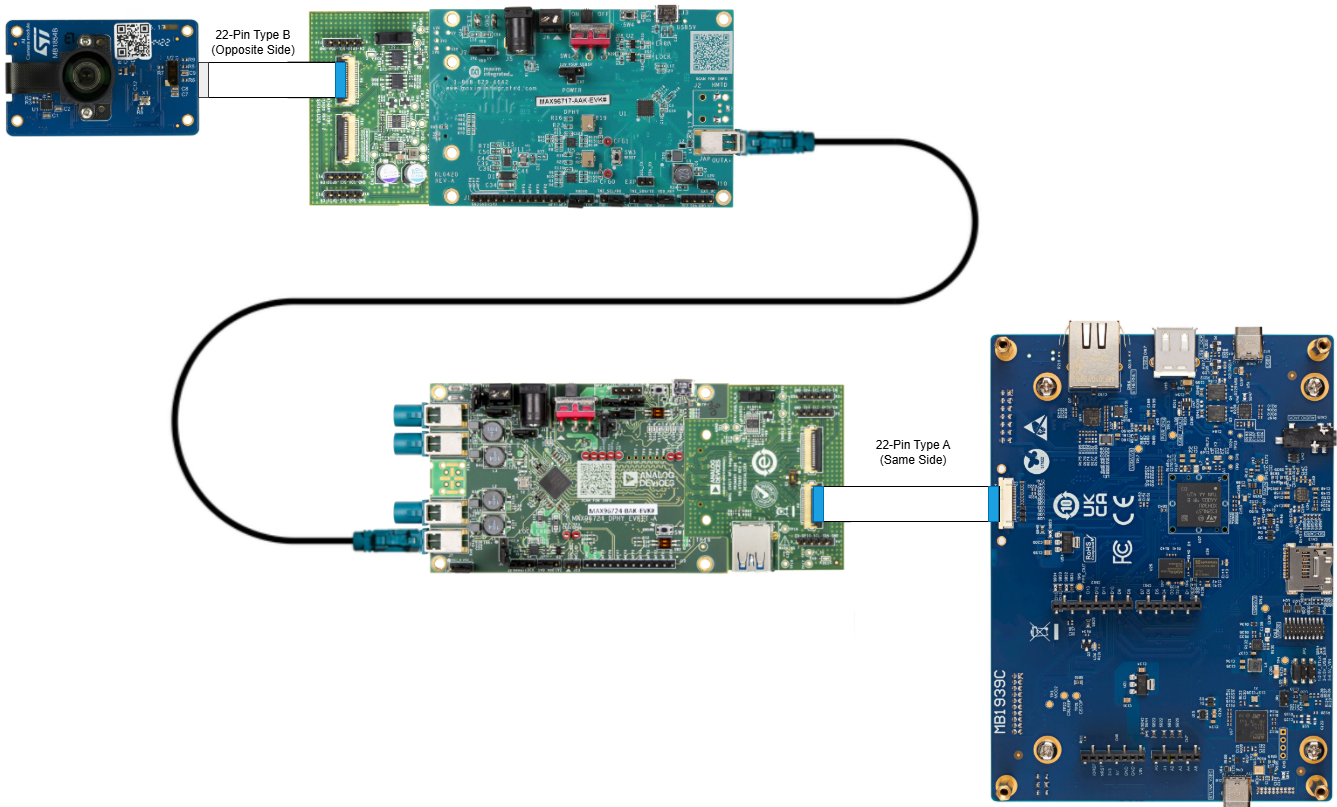
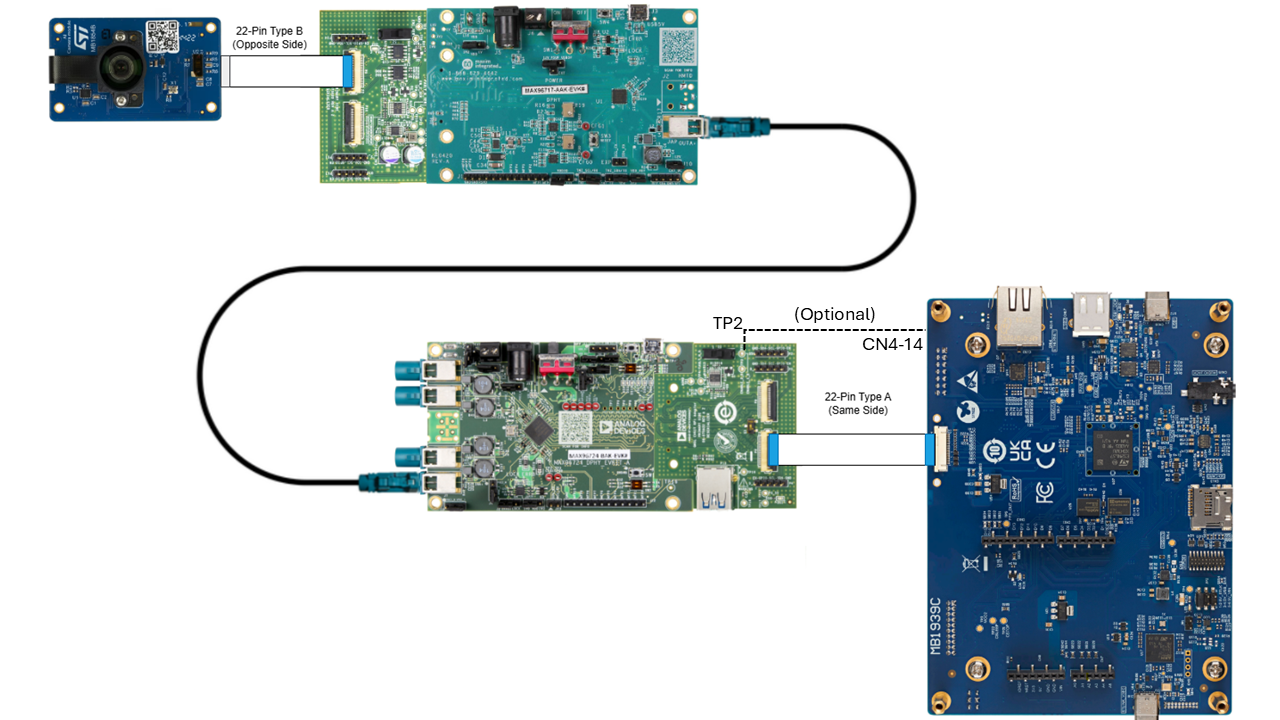
Add GPIO I2C Mux Control
Add GPIO control of the I2C MUX located on the deserializer
EvKit to allow the Zephyr application to control the
I2C routing rather than manually configuring S1.

Changed region(s): [[0.125, 0.3667, 1.0, 1.0], [0.0, 0.0, 0.625, 0.275], [0.6562, 0.1528, 0.75, 0.3972]]

diff --git a/app/src/gmsl.c b/app/src/gmsl.c
@@ -6,6 +6,7 @@
 
 #include <zephyr/kernel.h>
 #include <zephyr/device.h>
+#include <zephyr/drivers/gpio.h>
 #include <zephyr/drivers/i2c.h>
 #include <zephyr/logging/log.h>
 
@@ -30,6 +31,8 @@ BUILD_ASSERT(DT_NODE_HAS_COMPAT(DT_NODELABEL(gmsl_deser), adi_max96724),
 /* I2C Bus assignments for GMSL pulled from the device tree */
 static const struct i2c_dt_spec ser_i2c = I2C_DT_SPEC_GET(DT_NODELABEL(gmsl_ser));
 static const struct i2c_dt_spec deser_i2c = I2C_DT_SPEC_GET(DT_NODELABEL(gmsl_deser));
+static const struct gpio_dt_spec i2c_ctrl_gpio =
+	GPIO_DT_SPEC_GET_OR(DT_NODELABEL(gmsl_deser), i2c_mux_gpios, {0});
 
 /**
  * @brief Helper for reading a GMSL register value
@@ -95,7 +98,6 @@ static int gmsl_load_reg_table(const struct i2c_dt_spec *spec,
 	return 0;
 }
 
-
 int gmsl_init(void)
 {
 	int ret;
@@ -109,6 +111,14 @@ int gmsl_init(void)
 		LOG_ERR("Deserializer I2C bus not ready");
 		return -ENODEV;
 	}
+
+	if (!gpio_is_ready_dt(&i2c_ctrl_gpio)) {
+		LOG_INF("I2C control mux GPIO not provided or ready\n");
+	} else {
+		/* Take ownership at startup */
+		gpio_pin_configure_dt(&i2c_ctrl_gpio, GPIO_OUTPUT_ACTIVE);
+	}
+
 
 	ret = gmsl_load_reg_table(&deser_i2c, deser_max96724_link_init, ARRAY_SIZE(deser_max96724_link_init));
 	if (ret) {
@@ -149,6 +159,16 @@ int gmsl_init(void)
 	}
 	LOG_INF("Serializer Transmit Enable Complete");
 
+	gmsl_set_i2c_ctrl(false);
 	LOG_INF("GMSL init complete");
+	return 0;
+}
+
+int gmsl_set_i2c_ctrl(bool state)
+{
+	if (gpio_is_ready_dt(&i2c_ctrl_gpio)) {
+		return gpio_pin_set_dt(&i2c_ctrl_gpio, state ? 1 : 0);
+	}
+
 	return 0;
 }

diff --git a/app/src/cam_ctrl.c b/app/src/cam_ctrl.c
@@ -3,6 +3,8 @@
  *
  * SPDX-License-Identifier: Apache-2.0
  */
+#include "gmsl.h"
+
 #include <zephyr/kernel.h>
 #include <zephyr/device.h>
 #include <zephyr/input/input.h>
@@ -33,11 +35,14 @@ static void camera_adj_handler(struct k_work *work)
 	struct video_control ctrl;
 	int32_t span, step;
 
+	/* Take control of the I2C for camera adjustments */
+	gmsl_set_i2c_ctrl(true);
+
 	query.dev = camera_dev;
 	query.id = cam_evt->ctrl_id;
 	if (video_query_ctrl(&query)) {
 		LOG_ERR("Failed to query control");
-		return;
+		goto release_control;
 	}
 
 	span = query.range.max - query.range.min;
@@ -46,7 +51,7 @@ static void camera_adj_handler(struct k_work *work)
 	ctrl.id = cam_evt->ctrl_id;
 	if (video_get_ctrl(camera_dev, &ctrl)) {
 		LOG_ERR("Failed to get control");
-		return;
+		goto release_control;
 	}
 
 	ctrl.val = ctrl.val + step;
@@ -57,8 +62,11 @@ static void camera_adj_handler(struct k_work *work)
 
 	if (video_set_ctrl(camera_dev, &ctrl)) {
 		LOG_ERR("Failed to set control");
-		return;
+		goto release_control;
 	}
+
+	release_control:
+		gmsl_set_i2c_ctrl(false);
 }
 
 static void button_input_cb(struct input_event *evt, void *user_data)

diff --git a/app/include/gmsl.h b/app/include/gmsl.h
@@ -7,6 +7,8 @@
 #ifndef GMSL_H_
 #define GMSL_H_
 
+#include <stdbool.h>
+
 #ifdef __cplusplus
 extern "C" {
 #endif
@@ -20,6 +22,20 @@ extern "C" {
  * @retval 0 on success. Error code otherwise.
  */
 int gmsl_init(void);
+
+/**
+ * @brief Sets the i2c mux control
+ *
+ * The GMSL hardware platforms feature on-board I2C muxes controlled by physical
+ * switches or test point signals. If declared in the device tree, this will
+ * set the state of the associated GPIO.
+ *
+ * @param state - State to set the GPIO for i2c control ownership of this
+ *  application
+ *
+ * @retval 0 on success. Error code otherwise.
+ */
+int gmsl_set_i2c_ctrl(bool state);
 
 #ifdef __cplusplus
 }

diff --git a/app/src/main.c b/app/src/main.c
@@ -53,6 +53,9 @@ int main(void)
 		return 0;
 	}
 
+	/* Take I2C ownership until init is complete */
+	gmsl_set_i2c_ctrl(true);
+
 	/* Camera initialization deferred until GMSL is running */
 	camera_dev = DEVICE_DT_GET(DT_CHOSEN(camera_sensor));
 	device_init(camera_dev);
@@ -197,6 +200,9 @@ int main(void)
 		LOG_ERR("Failed to turn blanking off (error %d)", err);
 		return 0;
 	}
+
+	/* Return I2C ownership */
+	gmsl_set_i2c_ctrl(false);
 
 	const lv_img_dsc_t video_img = {
 		.header.w = CONFIG_VIDEO_WIDTH,

diff --git a/doc/HARDWARE.md b/doc/HARDWARE.md
@@ -33,6 +33,8 @@ Solder bridge or install a 0 Ohm resistor on the following reference designators
 | R89    | Connect MFP5 to the sensor interface connector |
 | R91    | Connect MFP0 to the sensor interface connector |
 
+(Optional) Install a header pin on TP2 for software control of the I2C Mux.
+
 ## Bootstrap Configurations
 
 The GMSL evaluation kits feature digipots to set the bootstrap pins for specific
@@ -85,6 +87,9 @@ shipped, and described in the respective User's Guides.
 | S1     | CAM2     | Enable CAM2 (P6) |
 | S3     | P6       | Slide towards P6. Enable 3.3V on CAM2 |
 
+> If using software control of the I2C mux, slide S1 to the CAM1 position and
+> connect the STM32N6570-DK to TP2 of the MAX96724F-BAK EvKit. The provided
+> device tree assigns PC7 (CN4 Pin 14 of the DK) for this purpose.
 
 ## Hardware Interconnect
 
@@ -95,6 +100,7 @@ shipped, and described in the respective User's Guides.
 | Deserializer Adapter P6 | STM32N6570-DK CN14 | 22-Pin Type A Ribbon |
 | MAX96724F-BAK J13 | | 12VDC Power Adapter (Provided in Kits) |
 | STM32N6570-DK CN6 (STLink) | Development PC | USB-C Flash & Terminal |
+| MAX96724F-BAK TP2 | STM32N6570-DK CN4-14 | GPIO Control of I2C MUX |
 
 Below is an illustration of the hardware interconnection for this application. In
 addition to the connections shown below, a 12VDC adapter is needed for the
